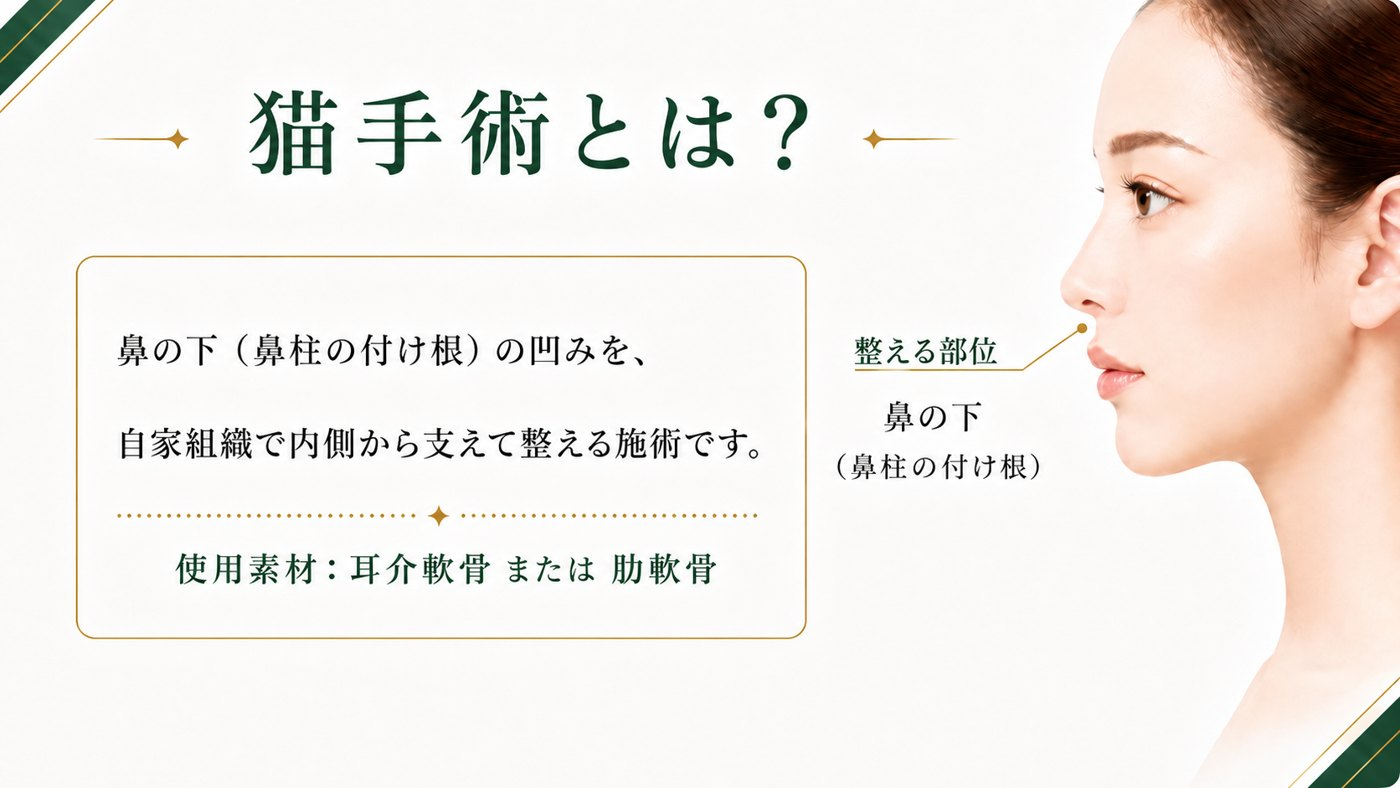
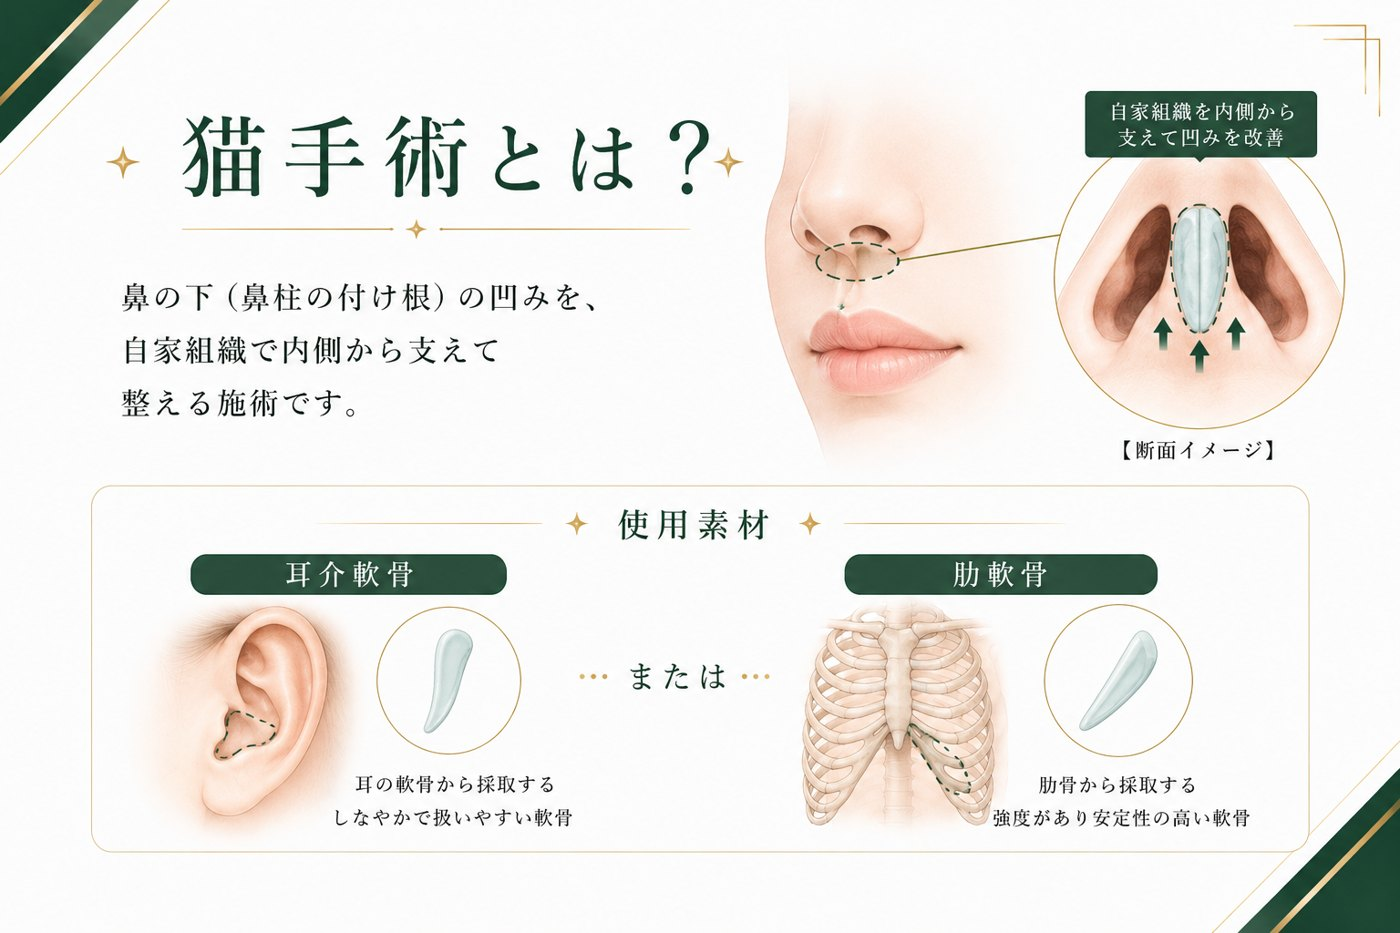
猫手術: update diagram to detailed version (断面イメージ + 使用素材)
Swap illust-neko.jpg for the richer diagram (definition + cross-section
showing 自家組織 supporting the hollow + 耳介軟骨/肋軟骨 materials); fix img
height to the new 1400x933 ratio and refresh alt.

Claude-Session: https://claude.ai/code/session_01PwBk1FNtCTRETBY8Zttc8h

diff --git a/seo-column/columns/neko-shujutsu-fukuoka.html b/seo-column/columns/neko-shujutsu-fukuoka.html
@@ -114,7 +114,7 @@
     <section class="article-section" id="what">
       <div class="article-section__header"><p class="section-number">Section 01</p><h2>猫手術とは？</h2></div>
       <figure class="figure">
-        <img src="images/illust-neko.jpg" alt="【図解】猫手術とは？ 鼻の下（鼻柱の付け根）の凹みを、耳介軟骨や肋軟骨などの自家組織で内側から支えて前に出す施術。整える部位は鼻の下（鼻柱の付け根）。" width="1400" height="788" loading="lazy" onerror="this.style.display='none';this.nextElementSibling.style.display='grid'">
+        <img src="images/illust-neko.jpg" alt="【図解】猫手術とは？ 鼻の下（鼻柱の付け根）の凹みを、耳介軟骨や肋軟骨などの自家組織で内側から支えて整える施術。断面イメージと使用素材（耳介軟骨・肋軟骨）。" width="1400" height="933" loading="lazy" onerror="this.style.display='none';this.nextElementSibling.style.display='grid'">
         <div class="illust-fallback">【図解】猫手術とは？（images/illust-neko.jpg）</div>
       </figure>
       <div class="key-points">
